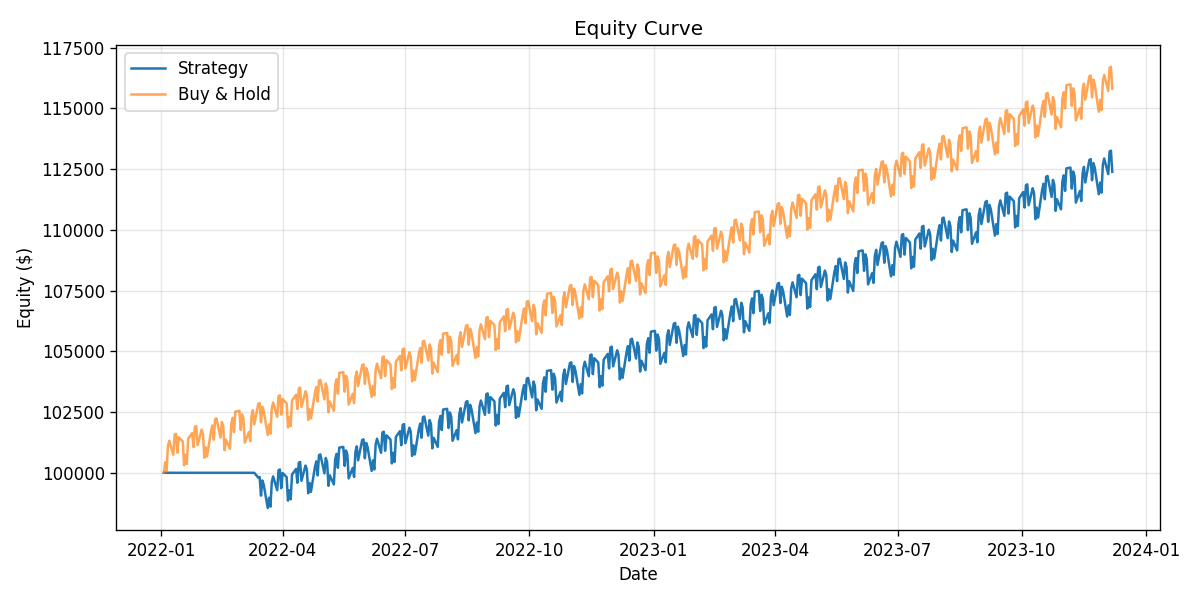
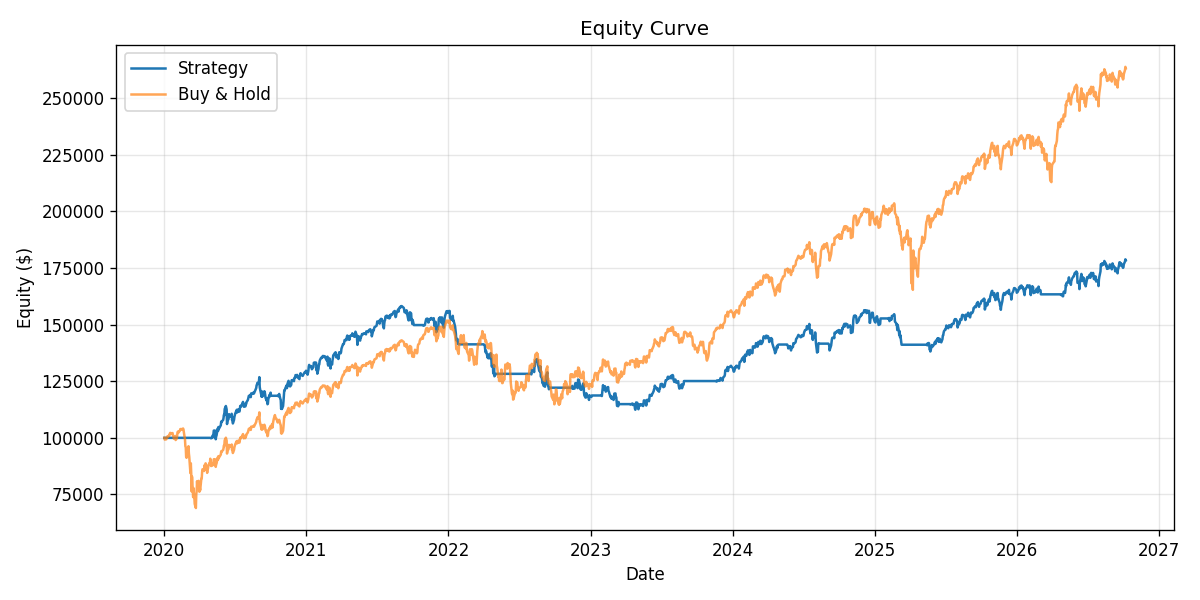
Refresh backtest and factor reports on live 2020-2026 data
Re-fetched KO/PEP/SPY from Yahoo Finance after removing the synthetic
bars, re-ran the dual-MA backtest and factor report on the full 10-symbol
watchlist, and updated README results. Ignore the unrelated odysseus/
checkout.

diff --git a/README.md b/README.md
@@ -34,7 +34,7 @@ flowchart LR
 # Install with backtest + dev dependencies
 pip install -e ".[backtest,dev]"
 
-# Option A: seed offline sample data (no network)
+# Option A: seed offline sample data (no network; skips symbols that already have data)
 python scripts/seed_sample_data.py
 
 # Option B: fetch live data from Yahoo Finance
@@ -44,7 +44,7 @@ quant-fetch --config config/watchlist.yaml
 quant-backtest --strategy dual_ma --symbol SPY
 
 # Factor research (IC report + latest screen)
-quant-factors --exclude SPY KO PEP
+quant-factors --exclude SPY
 
 # Data quality report
 quant-quality --config config/watchlist.yaml
@@ -102,18 +102,18 @@ quant-backtest --strategy mean_reversion --pair KO PEP
 
 Outputs: `reports/backtest_results.json`, `reports/equity_curve.png`
 
-## Results (sample data, dual-MA 20/50 on SPY)
+## Results (live data, dual-MA 20/50 on SPY)
 
-Run on ~2 years of synthetic SPY bars (`scripts/seed_sample_data.py`):
+Run on Yahoo Finance daily bars, Jan 2020 – Oct 2026 (`quant-fetch`):
 
 | Metric | Strategy | Buy & Hold |
 |--------|----------|------------|
-| Total return | 12.39% | 15.82% |
-| Sharpe (ann.) | 0.66 | 0.78 |
-| Max drawdown | -1.45% | -1.28% |
-| Trades | 5 | — |
+| Total return | 78.36% | 163.11% |
+| Sharpe (ann.) | 0.77 | 0.82 |
+| Max drawdown | -28.93% | -33.72% |
+| Trades | 83 | — |
 
-*Note: Synthetic data demonstrates the pipeline; re-run with live `quant-fetch` data for real-market results. Past performance does not guarantee future results.*
+The crossover cuts the drawdown a little but gives up about half of the buy-and-hold return after costs. That's a typical result for trend filters on a strongly trending index. *Past performance does not guarantee future results.*
 
 ![Equity curve](reports/equity_curve.png)
 
@@ -129,21 +129,21 @@ Run on ~2 years of synthetic SPY bars (`scripts/seed_sample_data.py`):
 - No lookahead: a test perturbs future prices and checks past factor values are unchanged
 
 ```bash
-quant-factors --exclude SPY KO PEP --horizon 21 --quantiles 3
+quant-factors --exclude SPY --horizon 21 --quantiles 3
 ```
 
 Outputs: `reports/factor_report.json`, `reports/factor_ic.png`
 
-### Results (7 large caps, 2020–2026, 21-day horizon)
+### Results (9 large caps, 2020–2026, 21-day horizon)
 
 | Factor | IC mean | t-stat | Hit rate |
 |--------|---------|--------|----------|
-| momentum_12_1 | 0.004 | 0.07 | 55% |
-| reversal_1m | 0.033 | 0.79 | 54% |
-| low_vol | -0.020 | -0.37 | 53% |
-| liquidity | -0.037 | -0.68 | 47% |
+| momentum_12_1 | 0.045 | 0.93 | 59% |
+| reversal_1m | 0.004 | 0.11 | 52% |
+| low_vol | -0.055 | -0.98 | 47% |
+| liquidity | 0.047 | 0.83 | 47% |
 
-None of the factors is statistically significant (|t| < 2). With only 7 names, each cross-section is very noisy, so treat this as a working pipeline, not as evidence of alpha.
+None of the factors is statistically significant (|t| < 2). With only 9 names, each cross-section is very noisy, so treat this as a working pipeline, not as evidence of alpha. Low-vol's negative IC matches the 2020–2026 period, when high-beta tech led the market.
 
 ![Cumulative IC](reports/factor_ic.png)
 
@@ -151,7 +151,6 @@ None of the factors is statistically significant (|t| < 2). With only 7 names, e
 
 - Tiny, survivor-biased universe (today's mega caps), so you need many more names for meaningful IC
 - Price/volume factors only; value and quality need fundamentals data
-- KO/PEP/SPY Parquet files currently mix synthetic seed bars with live data, so exclude them or re-fetch
 
 ## Repository layout
 
